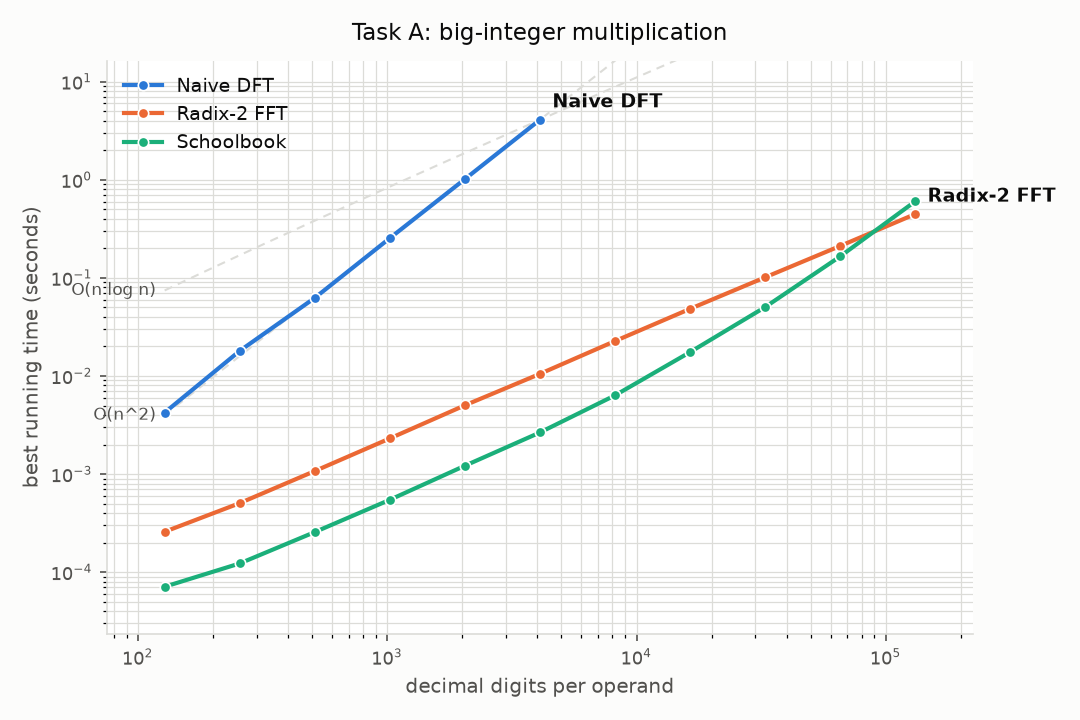
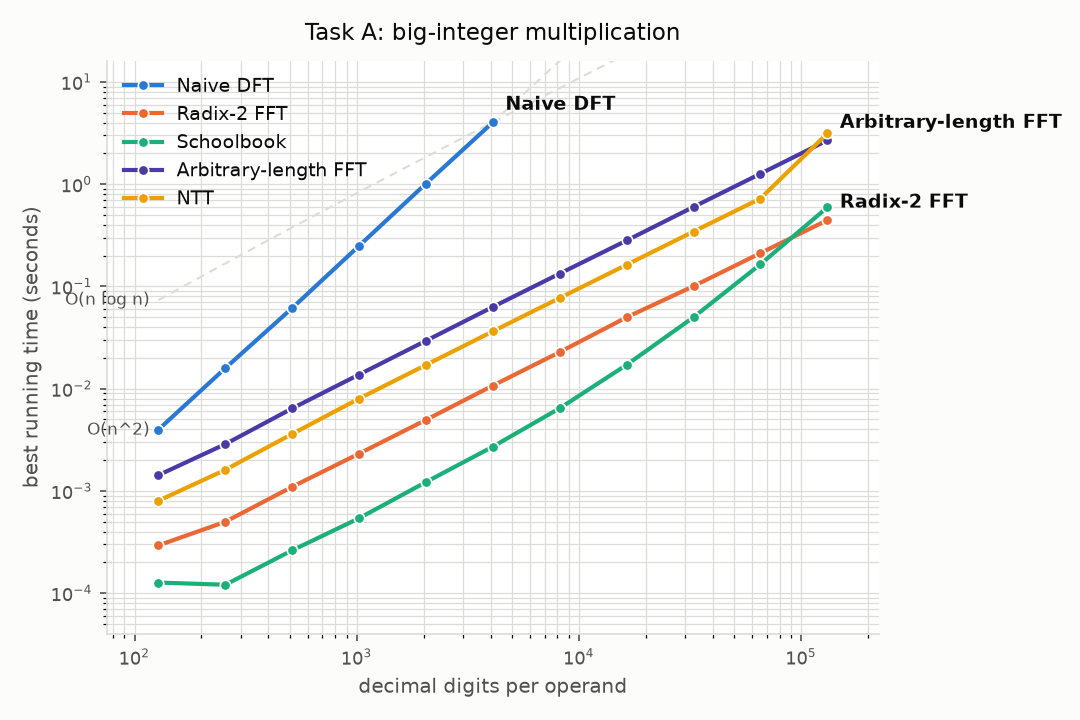
(CSE220-Offline3) Use given utils functions

Changed region(s): [[0.0306, 0.0917, 0.9778, 0.9778], [0.275, 0.0306, 0.6722, 0.0611]]

diff --git a/CSE220/Offline3/Jan2026_CSE220_Offline_DFT_FFT/image_conv.py b/CSE220/Offline3/Jan2026_CSE220_Offline_DFT_FFT/image_conv.py
@@ -52,13 +52,11 @@ def transform_2d(plane, engine):
     # TODO: implement this function
     plane = np.asarray(plane, dtype=np.complex128)
 
-    # Transform every row
     transformed = np.empty_like(plane)
 
     for i in range(plane.shape[0]):
         transformed[i, :] = engine.transform(plane[i, :])
 
-    # Transform every column
     result = np.empty_like(transformed)
 
     for j in range(transformed.shape[1]):
@@ -74,13 +72,11 @@ def inverse_2d(spectrum, engine):
     # TODO: implement this function
     spectrum = np.asarray(spectrum, dtype=np.complex128)
 
-    # Inverse transform every row
     transformed = np.empty_like(spectrum)
 
     for i in range(spectrum.shape[0]):
         transformed[i, :] = engine.inverse(spectrum[i, :])
 
-    # Inverse transform every column
     result = np.empty_like(transformed)
 
     for j in range(transformed.shape[1]):
@@ -145,14 +141,9 @@ def convolve_plane(plane, kernel, engine, circular=False):
 
         return result.real
 
-    # ---------------------------------------------------------
-    # Linear convolution
-    # ---------------------------------------------------------
-
     full_H = H + kh - 1
     full_W = W + kw - 1
 
-    # FFT requires a power-of-two size in each dimension.
     if engine.name == "fft":
         transform_H = next_power_of_two(full_H)
         transform_W = next_power_of_two(full_W)
@@ -160,25 +151,19 @@ def convolve_plane(plane, kernel, engine, circular=False):
         transform_H = full_H
         transform_W = full_W
 
-    # Zero-pad image and kernel.
     padded_plane = np.zeros((transform_H, transform_W), dtype=np.complex128)
     padded_kernel = np.zeros((transform_H, transform_W), dtype=np.complex128)
 
     padded_plane[:H, :W] = plane
     padded_kernel[:kh, :kw] = kernel
 
-    # Transform both.
     plane_spectrum = transform_2d(padded_plane, engine)
     kernel_spectrum = transform_2d(padded_kernel, engine)
 
-    # Convolution theorem.
     convolution_spectrum = plane_spectrum * kernel_spectrum
 
-    # Back to spatial domain.
     full_result = inverse_2d(convolution_spectrum, engine).real
 
-    # Crop the center so that the output has the same
-    # dimensions as the original image.
     row_start = kh // 2
     col_start = kw // 2
 
@@ -200,7 +185,6 @@ def convolve_image(image, kernel, engine, circular=False):
     # TODO: implement this function
     image = np.asarray(image, dtype=np.float64)
 
-    # Grayscale image
     if image.ndim == 2:
         return convolve_plane(
             image,
@@ -209,7 +193,6 @@ def convolve_image(image, kernel, engine, circular=False):
             circular=circular
         )
 
-    # Colour image
     if image.ndim == 3:
         planes = []
 
@@ -293,9 +276,7 @@ def run_single(path, kernel_name, param, engine_name, out_dir, gray=False):
     # TODO: implement this function
     os.makedirs(out_dir, exist_ok=True)
 
-    # ---------------------------------------------------------
-    # Load image
-    # ---------------------------------------------------------
+
     image = load_image(path)
 
     if gray:
@@ -304,9 +285,7 @@ def run_single(path, kernel_name, param, engine_name, out_dir, gray=False):
 
     H, W = image.shape[:2]
 
-    # ---------------------------------------------------------
-    # Build kernel
-    # ---------------------------------------------------------
+
     if kernel_name == "bokeh":
         kernel = make_kernel("bokeh", radius=param)
 
@@ -326,9 +305,7 @@ def run_single(path, kernel_name, param, engine_name, out_dir, gray=False):
     else:
         raise ValueError(f"Unknown kernel: {kernel_name}")
 
-    # ---------------------------------------------------------
-    # Select transform engine
-    # ---------------------------------------------------------
+
     if engine_name == "dft":
         engine = DFTAnalyzer()
 
@@ -341,9 +318,7 @@ def run_single(path, kernel_name, param, engine_name, out_dir, gray=False):
     else:
         raise ValueError(f"Unknown engine: {engine_name}")
 
-    # ---------------------------------------------------------
-    # Linear convolution
-    # ---------------------------------------------------------
+
     blurred = convolve_image(
         image,
         kernel,
@@ -351,9 +326,7 @@ def run_single(path, kernel_name, param, engine_name, out_dir, gray=False):
         circular=False
     )
 
-    # ---------------------------------------------------------
-    # Circular convolution
-    # ---------------------------------------------------------
+
     wraparound = convolve_image(
         image,
         kernel,
@@ -361,9 +334,7 @@ def run_single(path, kernel_name, param, engine_name, out_dir, gray=False):
         circular=True
     )
 
-    # ---------------------------------------------------------
-    # Verification on top-left 64x64 crop
-    # ---------------------------------------------------------
+
     crop = image[:64, :64]
 
     if crop.ndim == 3:
@@ -385,9 +356,7 @@ def run_single(path, kernel_name, param, engine_name, out_dir, gray=False):
 
     verdict = "MATCH" if max_error <= 1e-9 else "MISMATCH"
 
-    # ---------------------------------------------------------
-    # Determine transform size used
-    # ---------------------------------------------------------
+
     kh, kw = kernel.shape
 
     linear_H = H + kh - 1
@@ -400,9 +369,7 @@ def run_single(path, kernel_name, param, engine_name, out_dir, gray=False):
         transform_H = linear_H
         transform_W = linear_W
 
-    # ---------------------------------------------------------
-    # Save outputs
-    # ---------------------------------------------------------
+
     save_image(
         blurred,
         os.path.join(out_dir, "blurred.png")
@@ -432,47 +399,24 @@ def run_single(path, kernel_name, param, engine_name, out_dir, gray=False):
         suptitle=suptitle
     )
 
-    # ---------------------------------------------------------
-    # Report
-    # ---------------------------------------------------------
+
     if image.ndim == 2:
         image_description = f"{H} x {W}, gray"
     else:
         image_description = f"{H} x {W}, RGB"
 
-    with open(
-        os.path.join(out_dir, "report.txt"),
-        "w",
-        encoding="utf-8"
-    ) as f:
-        f.write(
-            "Task B -- 2D convolution through the frequency domain\n"
-        )
-        f.write(
-            f"image               : {path}  ({image_description})\n"
-        )
-        f.write(
-            f"kernel              : {kernel_name}  "
-            f"({kh} x {kw})\n"
-        )
-        f.write(
-            f"engine              : {engine_name}\n"
-        )
-        f.write(
-            f"linear-conv size    : "
-            f"{linear_H} x {linear_W}\n"
-        )
-        f.write(
-            f"transform size      : "
-            f"{transform_H} x {transform_W}\n"
-        )
-        f.write(
-            f"max |spectral - direct| on 64x64 crop : "
-            f"{max_error:.3e}\n"
-        )
-        f.write(
-            f"verification        : {verdict}\n"
-        )
+    report = [
+        "Task B -- 2D convolution through the frequency domain",
+        f"image               : {path}  ({image_description})",
+        f"kernel              : {kernel_name}  ({kh} x {kw})",
+        f"engine              : {engine_name}",
+        f"linear-conv size    : {linear_H} x {linear_W}",
+        f"transform size      : {transform_H} x {transform_W}",
+        f"max |spectral - direct| on 64x64 crop : {max_error:.3e}",
+        f"verification        : {verdict}"
+    ]
+
+    write_report(os.path.join(out_dir, "report.txt"), report)
 
     print(verdict)
 

diff --git a/CSE220/Offline3/Jan2026_CSE220_Offline_DFT_FFT/bigmul.py b/CSE220/Offline3/Jan2026_CSE220_Offline_DFT_FFT/bigmul.py
@@ -301,18 +301,7 @@ def run_single(path, method, out_dir):
 
     os.makedirs(out_dir, exist_ok=True)
 
-    with open(path, "r", encoding="utf-8") as f:
-        lines = [
-            line.strip()
-            for line in f
-            if line.strip() and not line.strip().startswith("#")
-        ]
-
-    if len(lines) != 2:
-        raise ValueError("Input file must contain exactly two integers")
-
-    text_a = lines[0]
-    text_b = lines[1]
+    text_a, text_b = read_operands(path)
 
     product, N, limbs_a, limbs_b, base_digits = multiply(text_a, text_b, method)
 
@@ -325,25 +314,21 @@ def run_single(path, method, out_dir):
 
     print(verdict)
 
-    with open(os.path.join(out_dir, "product.txt"), "w", encoding="utf-8") as f:
-        f.write(product + "\n")
+    write_text(os.path.join(out_dir, "product.txt"), product)
 
-    with open(os.path.join(out_dir, "report.txt"), "w", encoding="utf-8") as f:
-        f.write("Task A -- big-integer multiplication by spectral convolution\n")
-        f.write(f"input file          : {path}\n")
-        f.write(f"method              : {method}\n")
-        f.write(
-            f"digits of A / B     : "
-            f"{len(text_a.lstrip('+-'))} / {len(text_b.lstrip('+-'))}\n"
-        )
-        f.write(f"base                : 10^{base_digits}\n")
-        f.write(
-            f"limbs of A / B      : "
-            f"{len(limbs_a)} / {len(limbs_b)}\n"
-        )
-        f.write(f"transform length N  : {N}\n")
-        f.write(f"digits of product   : {len(product.lstrip('-'))}\n")
-        f.write(f"verification        : {verdict}\n")
+    report = [
+        "Task A -- big-integer multiplication by spectral convolution",
+        f"input file          : {path}",
+        f"method              : {method}",
+        f"digits of A / B     : {len(text_a.lstrip('+-'))} / {len(text_b.lstrip('+-'))}",
+        f"base                : 10^{base_digits}",
+        f"limbs of A / B      : {len(limbs_a)} / {len(limbs_b)}",
+        f"transform length N  : {N}",
+        f"digits of product   : {len(product.lstrip('-'))}",
+        f"verification        : {verdict}",
+    ]
+
+    write_report(os.path.join(out_dir, "report.txt"), report)
 
     if verdict == "MISMATCH":
         print(f"MISMATCH: expected {expected}, got {product}")

diff --git a/CSE220/Offline3/Jan2026_CSE220_Offline_DFT_FFT/transforms.py b/CSE220/Offline3/Jan2026_CSE220_Offline_DFT_FFT/transforms.py
@@ -305,7 +305,6 @@ class NTTTransformer(FFTTransformer):
         while length <= n:
             half = length // 2
 
-            # Compute this stage's twiddle factors once.
             wlen = pow(
                 root,
                 (self.MOD - 1) // length,
@@ -320,7 +319,6 @@ class NTTTransformer(FFTTransformer):
                     twiddles[k - 1] * wlen
                 ) % self.MOD
 
-            # Apply the butterflies.
             for start in range(0, n, length):
                 for k in range(half):
                     u = values[start + k]
